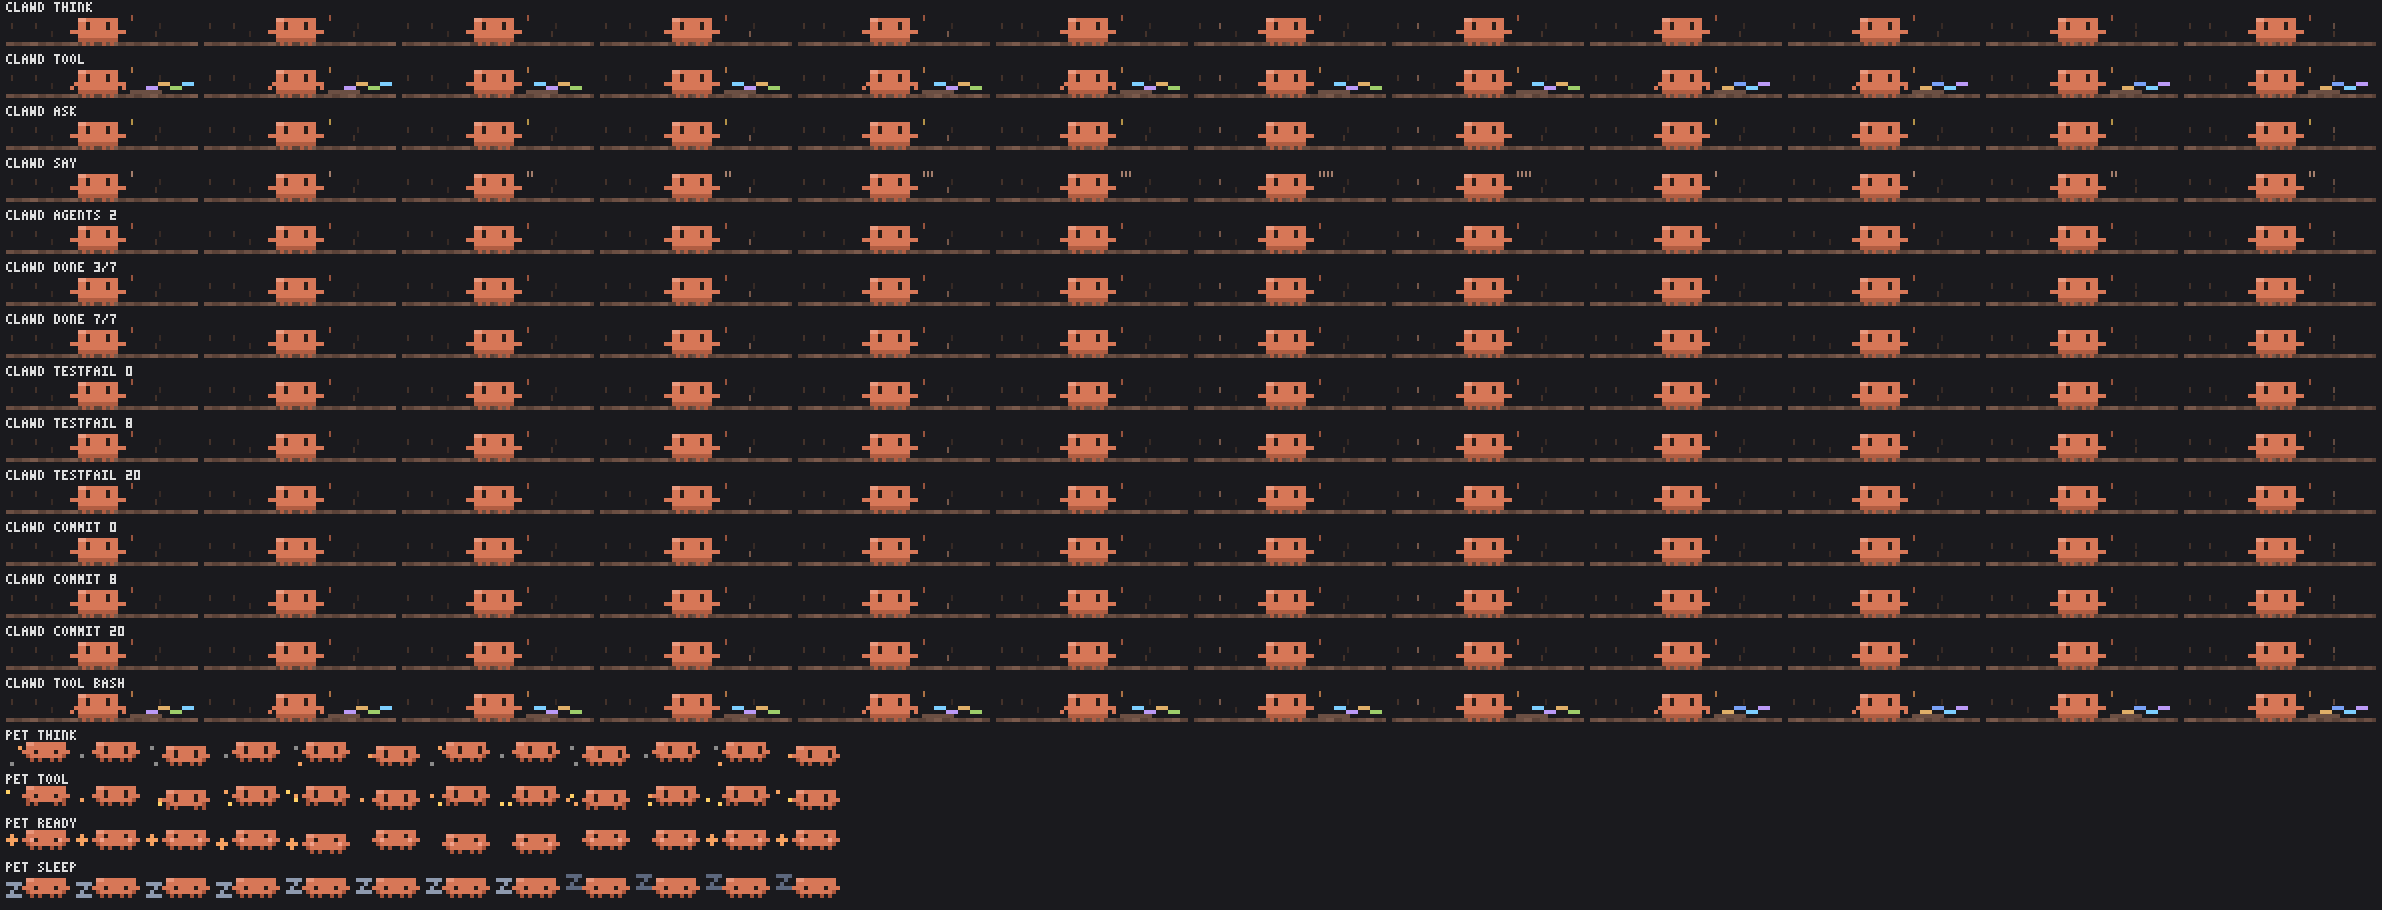
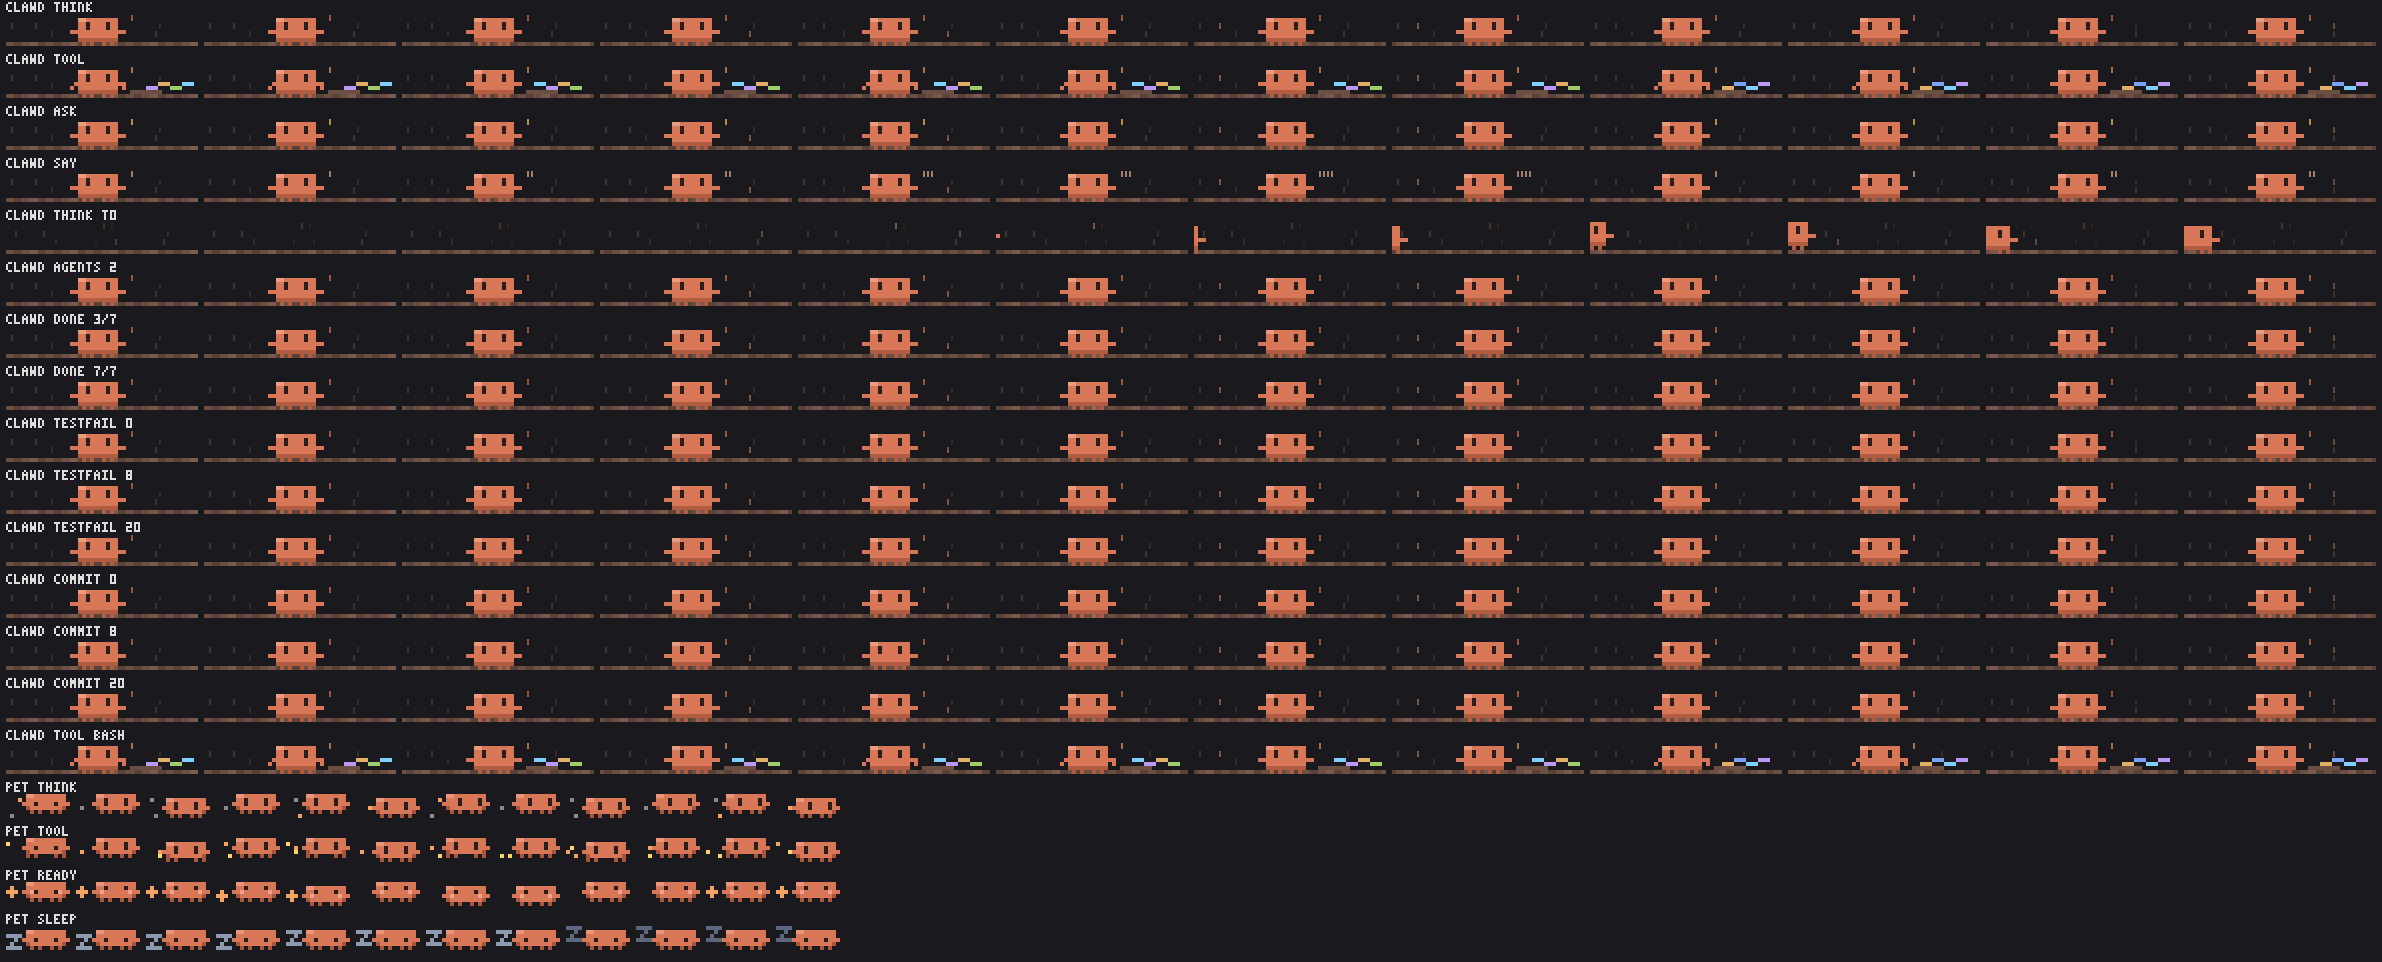
showtime: shots.ts per-theme gallery rows, think t0 strip, named constants

Changed region(s): [[0.0, 0.0308, 1.0, 0.9846]]

diff --git a/showtime/scripts/shots.ts b/showtime/scripts/shots.ts
@@ -3,6 +3,8 @@
 // a dimmed block of its color), labels in a 3×5 pixel font.
 //   bun scripts/shots.ts --theme <name>   → assets/<name>.png, assets/review/<name>.png
 //   bun scripts/shots.ts --gallery        → assets/gallery.png (every theme's still)
+//   Sheet strips, top to bottom: think, tool, ask, say, think t0 (from t=0), agents 2, done 3/7, done 7/7,
+//   testFail and commit at news age 0/8/20, tool bash, then the pet in think/tool/ready/sleep.
 import { deflateSync } from 'node:zlib'
 import { mkdirSync, writeFileSync } from 'node:fs'
 import { join } from 'node:path'
@@ -18,6 +20,8 @@ const W = 48
 const STILL_W = 80
 const BACK = [0x1a, 0x1a, 0x1e] as const
 const GAP = 6
+const LABEL_H = 14
+const FRAMES = 12
 
 type Img = { w: number; h: number; px: Uint8Array }
 const image = (w: number, h: number): Img => {
@@ -58,7 +62,7 @@ function blit(img: Img, g: Grid, ox: number, oy: number): void {
   })
 }
 
-// A 3×5 font for the labels: a-z, 0-9, space, / and :.
+// A 3×5 font for the labels: a-z, 0-9, space, / : = and -.
 const FONT: Record<string, string[]> = {
   a: ['010', '101', '111', '101', '101'], b: ['110', '101', '110', '101', '110'], c: ['011', '100', '100', '100', '011'], d: ['110', '101', '101', '101', '110'],
   e: ['111', '100', '110', '100', '111'], f: ['111', '100', '110', '100', '100'], g: ['011', '100', '101', '101', '011'], h: ['101', '101', '111', '101', '101'],
@@ -99,12 +103,15 @@ function png(img: Img): Uint8Array {
 }
 
 const sig = (over: Partial<Signals>): Signals => ({ ...IDLE_SIGNALS, ...over })
+const STILL_SIGNALS = sig({ act: 'tool', tool: 'bash', done: 3, total: 7, agents: 1 })
 
-/** The review sheet's strips: a label and twelve consecutive frames each. */
+/** The review sheet's strips: a label and FRAMES consecutive frames each. */
 function strips(theme: Theme): { name: string; frames: Grid[] }[] {
   const acts: Act[] = ['think', 'tool', 'ask', 'say']
-  const twelve = (f: (i: number) => Signals, t0 = 40) => Array.from({ length: 12 }, (_, i) => theme.scene(t0 + i, W, f(i)))
+  const twelve = (f: (i: number) => Signals, t0 = 40) => Array.from({ length: FRAMES }, (_, i) => theme.scene(t0 + i, W, f(i)))
   const out = acts.map(act => ({ name: act, frames: twelve(i => sig({ act, actAge: 30 + i })) }))
+  // think from t=0, so a hero that strolls in from the edge shows its walk (the other strips start at t=40)
+  out.push({ name: 'think t0', frames: twelve(i => sig({ act: 'think', actAge: i }), 0) })
   out.push({ name: 'agents 2', frames: twelve(i => sig({ agents: 2, agentsAge: i })) })
   out.push({ name: 'done 3/7', frames: twelve(i => sig({ done: 3, total: 7, doneAge: i })) })
   out.push({ name: 'done 7/7', frames: twelve(i => sig({ done: 7, total: 7, doneAge: i })) })
@@ -117,44 +124,47 @@ function sheet(theme: Theme): Img {
   const rows = strips(theme)
   const cellH = theme.rows * SCALE * 2
   const petH = PET_ROWS * SCALE * 2
-  const stripH = 14 + cellH + GAP
-  const petStripH = 14 + petH + GAP
-  const img = image(12 * (W * SCALE + GAP) + GAP, rows.length * stripH + 4 * petStripH + GAP)
+  const stripH = LABEL_H + cellH + GAP
+  const petStripH = LABEL_H + petH + GAP
+  const img = image(FRAMES * (W * SCALE + GAP) + GAP, rows.length * stripH + 4 * petStripH + GAP)
   rows.forEach((strip, r) => {
     const y = r * stripH
     label(img, `${theme.name} ${strip.name}`, GAP, y + 2)
-    strip.frames.forEach((g, i) => blit(img, g, GAP + i * (W * SCALE + GAP), y + 14))
+    strip.frames.forEach((g, i) => blit(img, g, GAP + i * (W * SCALE + GAP), y + LABEL_H))
   })
   const y = rows.length * stripH
   const states = ['think', 'tool', 'ready', 'sleep'] as const
   states.forEach((state, k) => {
     const py = y + k * petStripH
     label(img, `pet ${state}`, GAP, py + 2)
-    for (let i = 0; i < 12; i++) blit(img, petFrame(theme.pet, state, i * 2), GAP + i * (PET_W * SCALE + GAP), py + 14)
+    for (let i = 0; i < FRAMES; i++) blit(img, petFrame(theme.pet, state, i * 2), GAP + i * (PET_W * SCALE + GAP), py + LABEL_H)
   })
   return img
 }
 
 function still(theme: Theme): Img {
-  const g = theme.scene(40, STILL_W, sig({ act: 'tool', tool: 'bash', done: 3, total: 7, agents: 1 }))
+  const g = theme.scene(40, STILL_W, STILL_SIGNALS)
   const img = image(STILL_W * SCALE, theme.rows * SCALE * 2)
   blit(img, g, 0, 0)
   return img
 }
 
 const args = process.argv.slice(2)
-mkdirSync(join(OUT, 'review'), { recursive: true })
 if (args[0] === '--theme' && isThemeName(args[1])) {
+  mkdirSync(join(OUT, 'review'), { recursive: true })
   const theme = THEMES[args[1]]
   writeFileSync(join(OUT, `${theme.name}.png`), png(still(theme)))
   writeFileSync(join(OUT, 'review', `${theme.name}.png`), png(sheet(theme)))
   console.log(`assets/${theme.name}.png assets/review/${theme.name}.png`)
 } else if (args[0] === '--gallery') {
-  const rowH = 14 + 4 * SCALE * 2 + GAP
-  const img = image(STILL_W * SCALE, THEME_NAMES.length * rowH)
+  mkdirSync(OUT, { recursive: true })
+  const heights = THEME_NAMES.map(name => LABEL_H + THEMES[name].rows * SCALE * 2 + GAP)
+  const img = image(STILL_W * SCALE, heights.reduce((a, b) => a + b, 0))
+  let y = 0
   THEME_NAMES.forEach((name, i) => {
-    label(img, name, 0, i * rowH + 2)
-    blit(img, THEMES[name].scene(40, STILL_W, sig({ act: 'tool', tool: 'bash', done: 3, total: 7, agents: 1 })), 0, i * rowH + 14)
+    label(img, name, 0, y + 2)
+    blit(img, THEMES[name].scene(40, STILL_W, STILL_SIGNALS), 0, y + LABEL_H)
+    y += heights[i]!
   })
   writeFileSync(join(OUT, 'gallery.png'), png(img))
   console.log('assets/gallery.png')

diff --git a/showtime/README.en.md b/showtime/README.en.md
@@ -35,7 +35,7 @@ Character scenes, two rows: `cat`, `bunny`, `sakura`, `mecha`, `neon`, `dino`, `
 | `neon`<br>![neon](assets/neon.gif) | `dino`<br>![dino](assets/dino.gif) |
 | `ocean`<br>![ocean](assets/ocean.gif) | `matrix`<br>![matrix](assets/matrix.gif) |
 
-Every theme's mascot, stage and companion in one still: [assets/gallery.png](assets/gallery.png); a still per theme sits beside each GIF (`assets/<theme>.png`). `bun scripts/shots.ts --gallery` (from the mod folder) renders them again from `hooks/themes.ts`; `bun scripts/shots.ts --theme <name>` writes the still and a labelled review sheet under `assets/review/`.
+One labelled scene row per theme (the tool/bash frame at 80 cells) in one image: [assets/gallery.png](assets/gallery.png); a still per theme sits beside each GIF (`assets/<theme>.png`). `bun scripts/shots.ts --gallery` (from the mod folder) renders them again from `hooks/themes.ts`; `bun scripts/shots.ts --theme <name>` writes the still and a labelled review sheet under `assets/review/`.
 
 `chomp`, `sparky`, `bluecat` and `nyan` are fan-made homages drawn from scratch, under names of their own; `clawd` is drawn as Claude Code draws him on its welcome screen.
 
